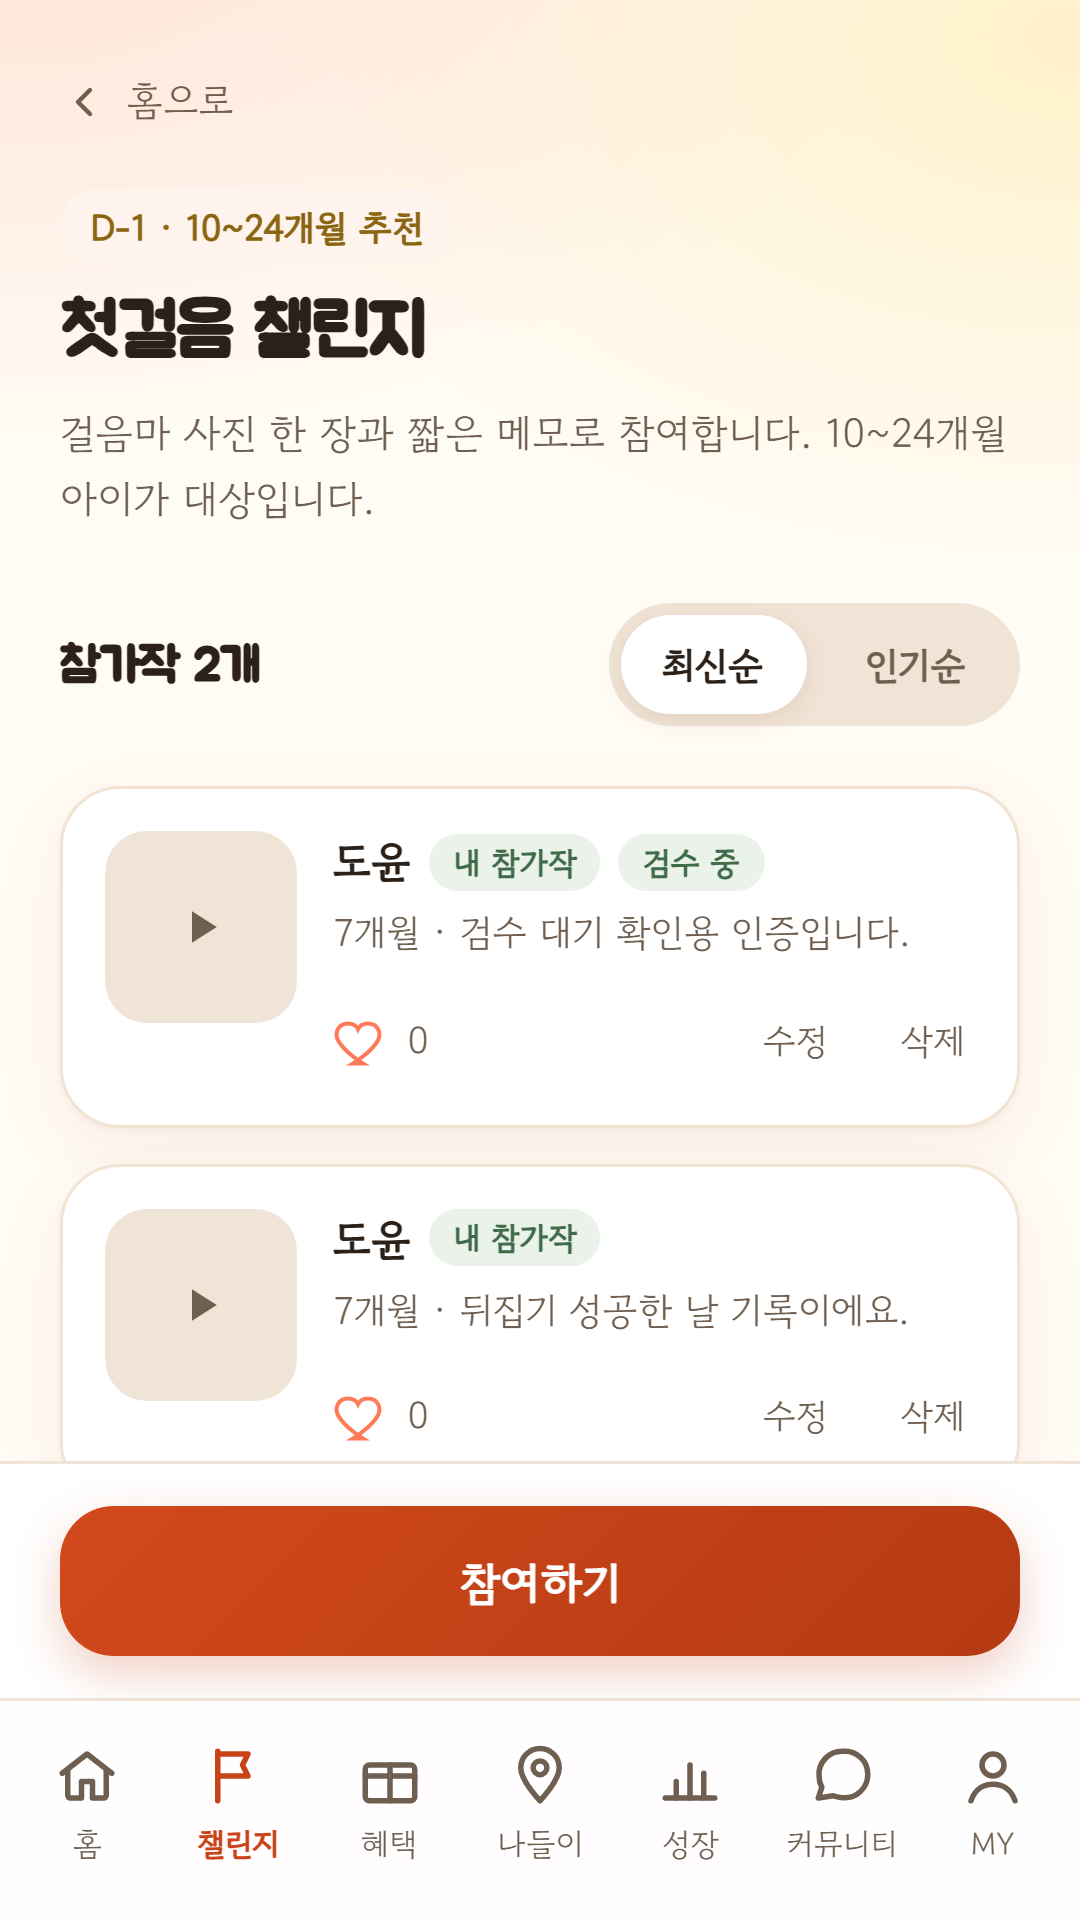
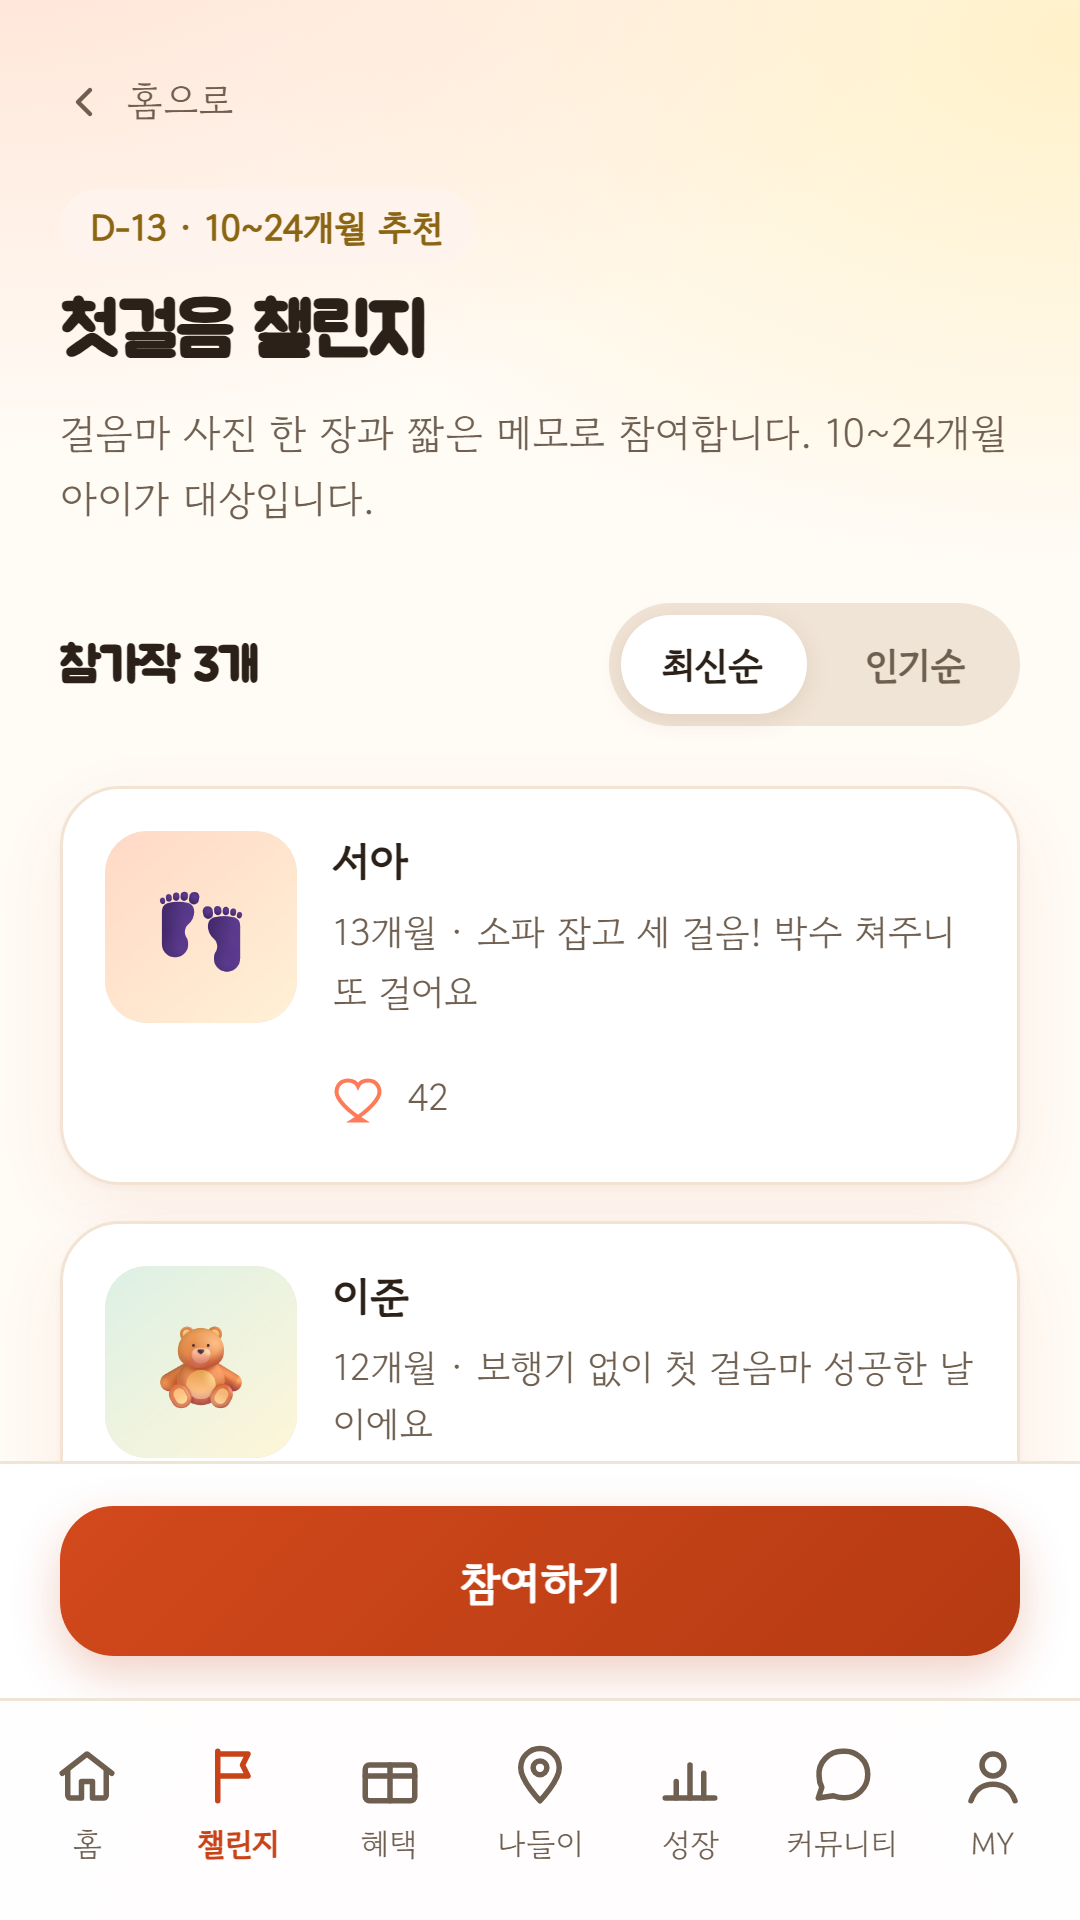
스토어 캡처: 예시 글·참가작으로 다시 찍음 (종·스크랩 반영)
테스트 DB 에는 검수 확인용 글뿐이라 캡처에 "검수 대기 확인용 글"·좋아요 0·모집 마감이 찍혔다.
캡처 브라우저 안에서만 서버 응답을 예시 글·참가작·그림으로 바꿔 끼운다 (DB 에 쓰지 않음).
챌린지 마감일도 캡처 때만 앞으로 당긴다. 서비스워커는 막아야 가로채기가 먹는다.

diff --git a/docs/플레이스토어/make_assets.js b/docs/플레이스토어/make_assets.js
@@ -44,6 +44,67 @@ const FEATURE_HTML = `<!doctype html><html lang="ko"><meta charset="utf-8">
   <div class="deco"><span>🍼</span><span>🧸</span><span>🌱</span><span>💛</span></div>
 </div></html>`;
 
+// 스토어 화면용 예시 글·참가작. 테스트 DB 에는 검수 확인용 글만 있어 그대로 찍으면 "검수 대기 확인용…"이 나온다.
+// 서버 응답만 이 브라우저 안에서 바꿔 끼운다 — DB 에는 아무것도 쓰지 않는다.
+const ago = (h) => new Date(Date.now() - h * 36e5).toISOString();
+const uid = (n) => '00000000-0000-4000-8000-' + String(n).padStart(12, '0');
+const SAMPLE_PHOTOS = {
+  walk: ['#FFD9C7', '#FFF1D6', '👣'], toy: ['#DDF1E6', '#FFF6D9', '🧸'], food: ['#FFE6B8', '#FFF6E8', '🥣'],
+  park: ['#D8ECFF', '#F0FFF4', '🌳'], bath: ['#E3EDFF', '#FFF0F5', '🛁'],
+};
+const SAMPLE_POSTS = [
+  { n: 1, h: 0.4, author: '서윤맘', stage: 'parenting', age: 8, likes: 24, comments: 9, photo: 'food', text: '[자랑] 오늘 처음으로 숟가락을 직접 잡았어요! 반은 흘렸지만 너무 기특해요 🥹' },
+  { n: 2, h: 2, author: '하준아빠', stage: 'parenting', age: 9, likes: 15, comments: 12, text: '[질문] 9개월인데 밤에 두세 번씩 깨요. 다들 수면교육 언제 시작하셨어요?' },
+  { n: 3, h: 5, author: '봄이맘', stage: 'pregnant', age: 30, likes: 31, comments: 7, photo: 'bath', text: '[정보] 신생아 목욕 준비물 정리해봤어요. 욕조·온도계·속싸개면 첫 달은 충분했어요.' },
+  { n: 4, h: 9, author: '지안맘', stage: 'parenting', age: 7, likes: 11, comments: 5, text: '[고민] 이유식 거부가 심해요. 묽기를 바꿔봐도 고개를 돌려요 ㅠㅠ' },
+  { n: 5, h: 26, author: '도담아빠', stage: 'parenting', age: 8, likes: 18, comments: 4, photo: 'park', text: '주말에 다녀온 수원 공원, 유모차 다니기 정말 편했어요. 수유실도 깨끗해요.' },
+];
+const SAMPLE_ENTRIES = [
+  { n: 11, h: 1, name: '서아', age: '13개월', votes: 42, photo: 'walk', note: '소파 잡고 세 걸음! 박수 쳐주니 또 걸어요' },
+  { n: 12, h: 4, name: '이준', age: '12개월', votes: 35, photo: 'toy', note: '보행기 없이 첫 걸음마 성공한 날이에요' },
+  { n: 13, h: 20, name: '하율', age: '15개월', votes: 28, photo: 'park', note: '공원에서 엄마 손 놓고 혼자 걸었어요' },
+];
+const postRow = (p) => ({ id: uid(p.n), author: p.author, owner_id: uid(900 + p.n), created_at: ago(p.h), text: p.text,
+  media_path: p.photo ? 'sample/' + p.photo + '.png' : null, likes: p.likes, comments: p.comments,
+  stage: p.stage, age_value: p.age, status: 'approved' });
+const entryRow = (e) => ({ id: uid(e.n), name: e.name, age: e.age, note: e.note, owner_id: uid(900 + e.n), created_at: ago(e.h),
+  media_path: 'sample/' + e.photo + '.png', votes: e.votes, status: 'approved' });
+
+async function useSampleContent(browser, ctx) {
+  // 예시 사진: 그라데이션 + 이모지 (저작권 걱정 없는 그림)
+  const pics = {};
+  const pp = await browser.newPage({ viewport: { width: 600, height: 600 } });
+  for (const [k, [a, b, em]] of Object.entries(SAMPLE_PHOTOS)) {
+    await pp.setContent(`<body style="margin:0;width:600px;height:600px;display:flex;align-items:center;justify-content:center;background:linear-gradient(140deg,${a},${b});font-size:260px">${em}</body>`);
+    pics[k] = await pp.screenshot();
+  }
+  await pp.close();
+
+  const json = (route, body) => route.fulfill({ status: 200, contentType: 'application/json', body: JSON.stringify(body) });
+  // 공개 목록(status=eq.approved)만 예시로. 내 글·알림 조회는 빈 목록.
+  const list = (rows) => (route) => {
+    if (route.request().method() !== 'GET') return route.continue();
+    return json(route, route.request().url().includes('status=eq.approved') ? rows : []);
+  };
+  await ctx.route('**/rest/v1/community_posts?*', list(SAMPLE_POSTS.map(postRow)));
+  await ctx.route('**/rest/v1/challenge_entries?*', list(SAMPLE_ENTRIES.map(entryRow)));
+  await ctx.route('**/storage/v1/object/sign/media', async (route) => {
+    const { paths } = JSON.parse(route.request().postData() || '{}');
+    return json(route, (paths || []).map((p) => ({ path: p, signedURL: '/object/sign/media/' + p + '?token=sample', error: null })));
+  });
+  await ctx.route('**/storage/v1/object/sign/media/sample/**', (route) => {
+    const k = route.request().url().split('/sample/')[1].split('.')[0];
+    return route.fulfill({ status: 200, contentType: 'image/png', body: pics[k] });
+  });
+  // 챌린지 마감일을 앞으로 당겨 "참여 중" 화면으로 찍는다 (코드의 날짜가 지나면 '모집 마감'만 보인다)
+  const until = new Date(Date.now() + 12 * 864e5).toISOString().slice(0, 10);
+  await ctx.route(/\/index\.html(\?.*)?$/, async (route) => {
+    const res = await route.fetch();
+    const body = (await res.text()).replace(/var CHALLENGE_DEADLINE = '[\d-]+';/, `var CHALLENGE_DEADLINE = '${until}';`);
+    return route.fulfill({ response: res, body });
+  });
+}
+
 async function main() {
   fs.mkdirSync(OUT, { recursive: true });
   fs.copyFileSync(path.join(ROOT, 'icons', 'icon-512.png'), path.join(OUT, 'icon-512.png'));
@@ -64,7 +125,8 @@ async function main() {
   await og.close();
 
   // 2) 휴대전화 스크린샷 — 360x640 @3배 = 1080x1920
-  const ctx = await browser.newContext({ viewport: { width: 360, height: 640 }, deviceScaleFactor: 3, isMobile: true, hasTouch: true });
+  const ctx = await browser.newContext({ viewport: { width: 360, height: 640 }, deviceScaleFactor: 3, isMobile: true, hasTouch: true, serviceWorkers: 'block' });
+  await useSampleContent(browser, ctx);
   const page = await ctx.newPage();
   await page.goto(BASE + '/index.html#onboarding', { waitUntil: 'load' });
   await sleep(1500);
